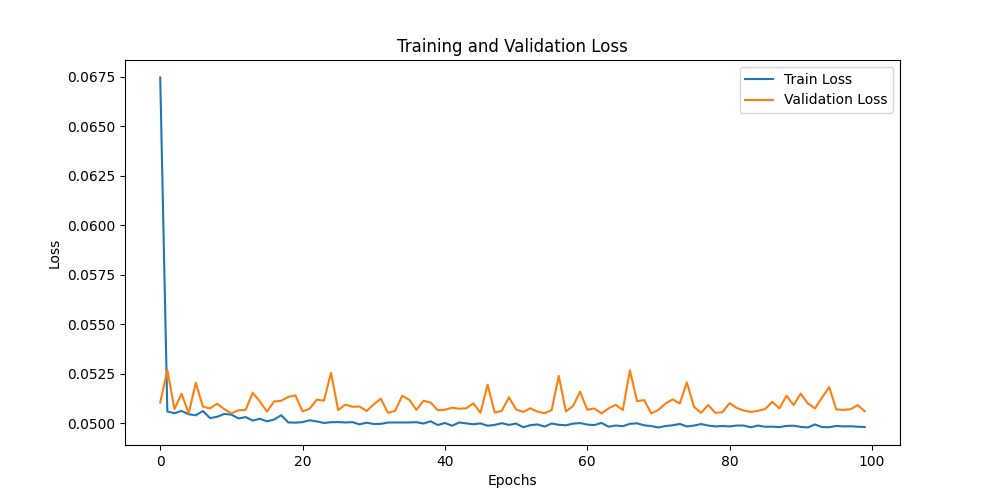
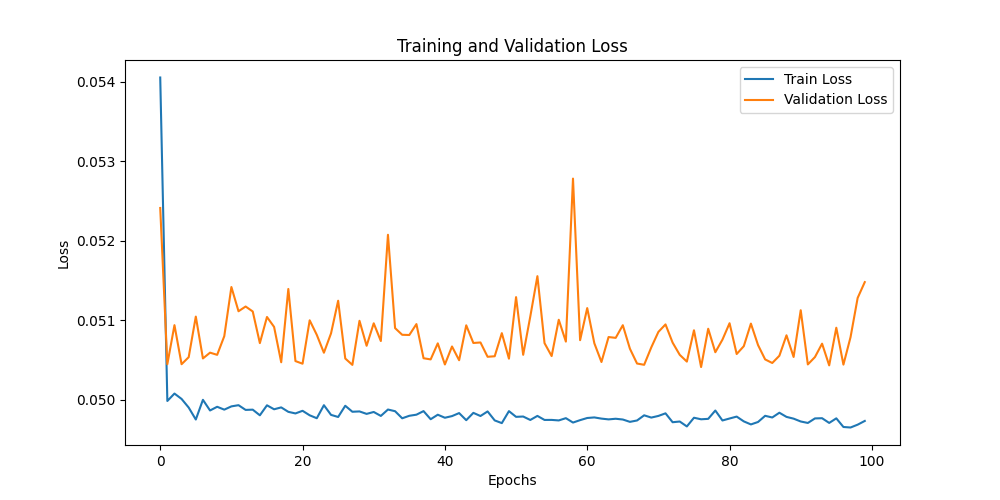
intento de mejorar la regresion de la 3

diff --git a/src/exercise_03/model.py b/src/exercise_03/model.py
@@ -7,7 +7,7 @@ class MultiplePerceptron(nn.Module):
         super().__init__()
         self.fc_input = nn.Linear(input_dim, dim1)
         self.fc=nn.Linear(dim1, dim2)
-        self.fc_output = nn.Sigmoid(dim2, output_dim)
+        self.fc_output = nn.Linear(dim2, output_dim)
         self.activation = nn.ReLU()
 
     def forward(self, x, use_activation=True,layers=10):
